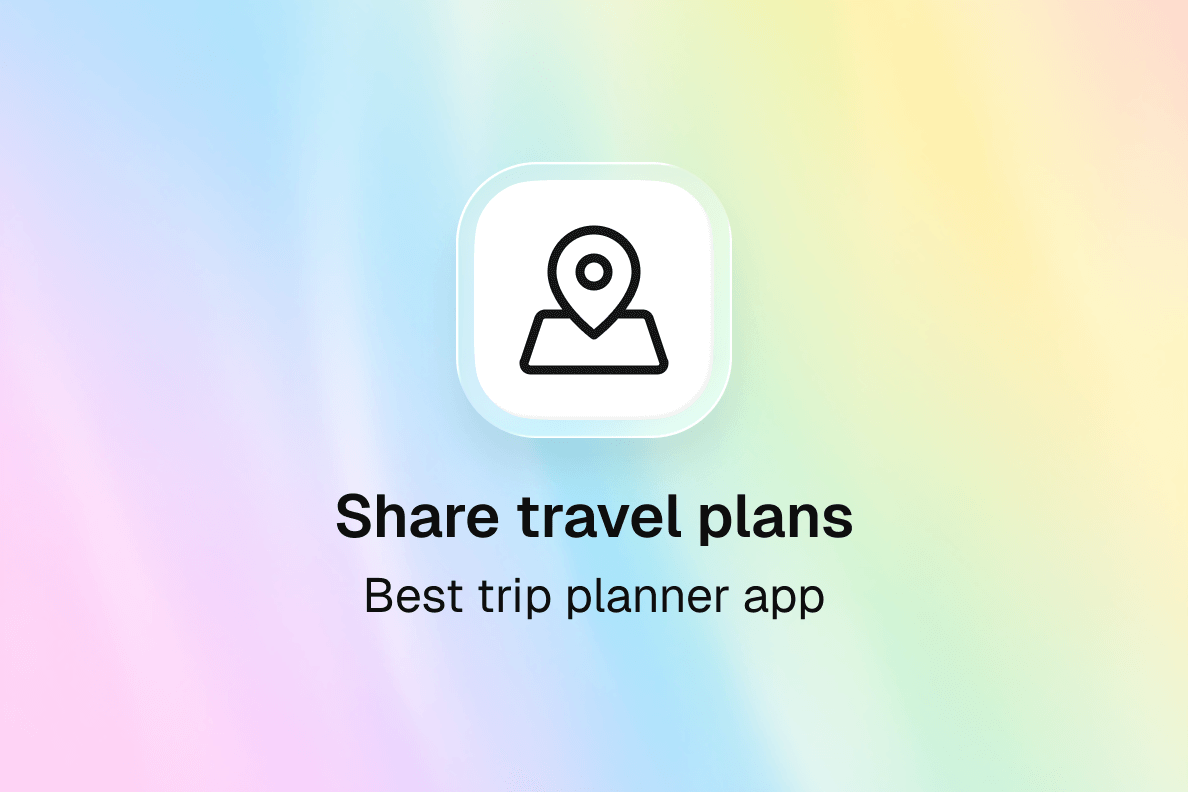
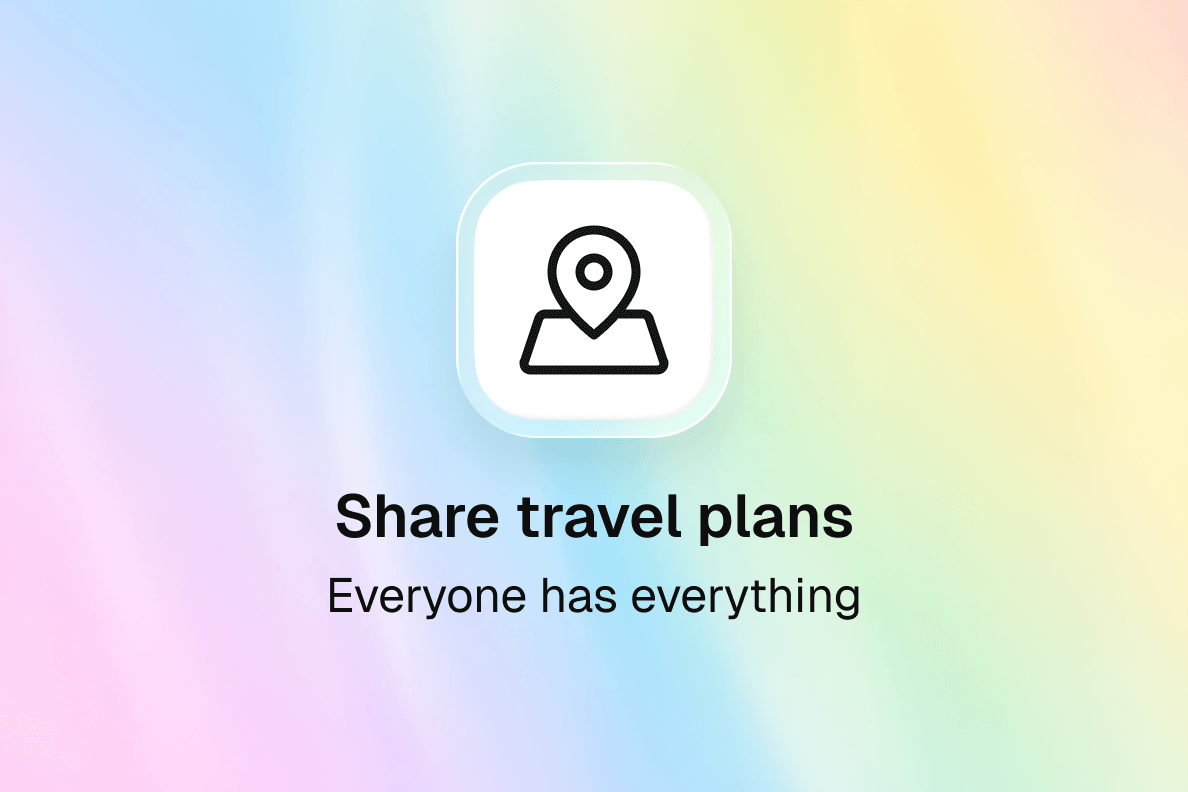
refactor: rewrite access wallet article from marketing to practical overview
Complete rewrite from press-release style to practical explanation.

New structure:
- Opens with the real problem: documents scattered in PDFs, emails, screenshots
- What Folio does: one place for IDs, tickets, bookings, cards
- How to import: forward email, upload PDF, take photo
- Not PDFs you zoom into: clean cards with visible info
- Timeline for travel: chronological view of upcoming documents
- Shared folders: family/friends see same documents
- Works offline: no dependency on connectivity

Added: image showing passport, bus ticket with barcode, trip timeline
Removed: marketing phrases like "exceptional clarity", "effortless to read"

Changed region(s): [[0.2803, 0.7273, 0.7475, 0.7879], [0.4672, 0.3939, 0.5295, 0.4242], [0.4983, 0.4545, 0.5295, 0.4848]]

diff --git a/src/pages/AccessYourDigitalWalletAnywhereArticlePage.tsx b/src/pages/AccessYourDigitalWalletAnywhereArticlePage.tsx
@@ -1,50 +1,69 @@
-import BlogArticleLayout from '../components/ui/BlogArticleLayout'
-import { ArticleH2, ArticleParagraph } from '../components/ui'
+import { BlogArticleLayout, ArticleH2, ArticleParagraph, ArticleImage } from '../components/ui'
 import { Link } from 'react-router-dom'
+import walletOverviewImage from '../assets/images/blog-wallet-overview-folio.png'
 
 export default function AccessYourDigitalWalletAnywhereArticlePage() {
   return (
     <BlogArticleLayout
-      title="Access your digital wallet anywhere"
-      description="A simpler way to keep every document with you on iOS and Android"
+      title="One app for your passport, tickets, and everything in between"
+      description="Your passport is a PDF. Your boarding pass is in email. Your hotel confirmation is a screenshot. Here's a better way."
       date="Jul 1, 2025"
       category="Product"
       slug="access-your-digital-wallet-anywhere"
     >
       <ArticleParagraph>
-        Folio Wallet on iOS and Android is designed to eliminate the stress of managing documents during travel, everyday errands or busy workdays. It brings everything together in one secure place, instantly accessible on any device you use. What used to be hidden inside bulky PDFs or scattered across email threads now appears as clean, structured cards that are ready at a glance. From passports and residence permits to hotel bookings, flight tickets and payment cards, every document becomes effortless to read and even easier to find.
+        Your passport is a PDF somewhere in your Files app. Your boarding pass is an email attachment you'll need to find at the gate. The hotel confirmation is a screenshot buried in your camera roll. Your train ticket is in a different email, from a different booking site, in a different format.
       </ArticleParagraph>
 
       <ArticleParagraph>
-        Open Folio and you step into a space where everything is already organized. Personal IDs, tickets, bookings and cards are arranged into simple visual categories so you always know where each item lives. Adding new documents takes only a moment. Upload a PDF from your phone, import files from mail apps, drop images from your gallery or send them through AirDrop or messaging apps. Folio extracts the important details automatically and transforms them into a neatly formatted card.
+        Each document lives in a different place. When you need one, you search. Sometimes you find it quickly. Sometimes you're standing at the counter, scrolling frantically, while the queue grows behind you.
       </ArticleParagraph>
 
-      <ArticleH2>
-        Travel documents with exceptional clarity
-      </ArticleH2>
+      <ArticleH2>One place for everything</ArticleH2>
 
       <ArticleParagraph>
-        Travel documents receive exceptional clarity. Your boarding passes, train tickets, event entries and hotel stays are displayed as bright, structured cards with readable times, routes, barcodes and QR codes. Hotel bookings include check-in and check-out windows, room types and full addresses. Transportation tickets highlight departure stations, platforms, seat numbers and class, all color coded for comfort and confidence in the moment.
-      </ArticleParagraph>
-
-      <ArticleParagraph>
-        Your IDs are treated with the same attention. Passports, identity cards, residence permits, driver licenses and payment cards appear in a unified layout with encrypted storage on your device. Expiry dates are tracked automatically and reminders arrive ahead of time so renewals never catch you by surprise.
-      </ArticleParagraph>
-
-      <ArticleH2>
-        Stay ready for what is ahead
-      </ArticleH2>
-
-      <ArticleParagraph>
-        Folio helps you stay ready for what is ahead. The Timeline view builds a chronological schedule from all your tickets and bookings. Flights, hotels, attractions and transfers fit together into a single, flowing plan without any manual work. Documents can also be translated instantly. If you receive a reservation in another language, Folio turns it into a version you can read easily while keeping the original structure intact. Perfect for international trips where clarity matters most.
+        <Link to="/#get-the-app" className="underline hover:text-[#737373] transition-colors">Folio</Link> puts all your documents in one app. IDs: passport, driver's license, residence permit, national ID. Tickets: flights, trains, buses, concerts, museums. Bookings: hotels, restaurants, car rentals. Cards: payment cards, insurance, membership cards, loyalty programs.
       </ArticleParagraph>
 
       <ArticleParagraph>
-        Shared folders make coordination simple. Whether you travel with friends, plan family vacations or manage documents for someone else, everyone sees the same set of shared items while private documents remain private. And because Folio works on both iOS and Android, your documents are always with you. Open your wallet on your phone or tablet, switch devices whenever you want and everything stays synced. Smart alerts notify you when upcoming trips approach or when important documents are about to expire.
+        Import from anywhere. Forward a confirmation email, and Folio extracts the ticket details automatically. Upload a PDF, and it becomes a readable card with the important information visible. Take a photo of a paper document, and it gets scanned and structured.
+      </ArticleParagraph>
+
+      <ArticleImage
+        src={walletOverviewImage}
+        alt="Folio app showing passport with all details, bus ticket with barcode ready to scan, and trip timeline with hotels, flights, and activities"
+      />
+
+      <ArticleH2>Not PDFs you zoom into</ArticleH2>
+
+      <ArticleParagraph>
+        The problem with PDFs is finding the information you need. The barcode is on page 2. The confirmation number is in tiny text at the bottom. The departure time is buried in a paragraph. You zoom in, scroll around, try to find what matters.
       </ArticleParagraph>
 
       <ArticleParagraph>
-        Folio is built to make document management feel effortless. No clutter, no searching, no zooming through PDF pages. Just a digital wallet that quietly organizes the most important parts of your life so you can focus on the experience, not the paperwork. <Link to="/#get-the-app" className="underline hover:text-[#0a0a0a] transition-colors">Available free on iOS and Android.</Link>
+        Folio extracts the key details and displays them clearly. Your bus ticket shows the departure time, stations, seat number, and barcode prominently. Your passport shows your name, number, and expiry date without opening a file. Your hotel booking shows check-in time, address, and confirmation number at a glance.
+      </ArticleParagraph>
+
+      <ArticleH2>Timeline for travel</ArticleH2>
+
+      <ArticleParagraph>
+        When you're traveling, documents have dates. Flight on Tuesday, hotel check-in the same day, museum tickets for Wednesday, train on Thursday. The Timeline view organizes everything chronologically. Open it and see what's coming up next, what documents you'll need today, and what's scheduled for later in the trip.
+      </ArticleParagraph>
+
+      <ArticleH2>Shared folders for groups</ArticleH2>
+
+      <ArticleParagraph>
+        Traveling with family or friends? Create a shared folder. Everyone with access sees the same documents. Both parents have the hotel confirmation. All four friends have the concert tickets. When one person adds a new booking, everyone sees it immediately. No forwarding emails. No "can you send me that again?"
+      </ArticleParagraph>
+
+      <ArticleH2>Works offline</ArticleH2>
+
+      <ArticleParagraph>
+        Airport WiFi is unreliable. International data is expensive. The moment you need a document is often the moment you don't have connectivity. Everything in Folio works offline. Your passport, your boarding pass, your hotel confirmation, all accessible without internet.
+      </ArticleParagraph>
+
+      <ArticleParagraph>
+        Free on iOS and Android. Your documents sync across devices and stay encrypted. One app for everything you used to scatter across emails, screenshots, and downloads.
       </ArticleParagraph>
     </BlogArticleLayout>
   )

diff --git a/src/data/blogArticles.ts b/src/data/blogArticles.ts
@@ -372,8 +372,8 @@ export const blogArticles: BlogArticle[] = sortArticlesByDate([
   {
     category: 'Product',
     date: 'Jul 1, 2025',
-    title: 'Access your digital wallet anywhere',
-    description: 'A simpler way to keep every document with you on iOS and Android',
+    title: 'One app for your passport, tickets, and everything in between',
+    description: "Your passport is a PDF. Your boarding pass is in email. Your hotel confirmation is a screenshot. Here's a better way.",
     slug: 'access-your-digital-wallet-anywhere',
     image: blogAccessYourDigitalWalletAnywhere,
   },
